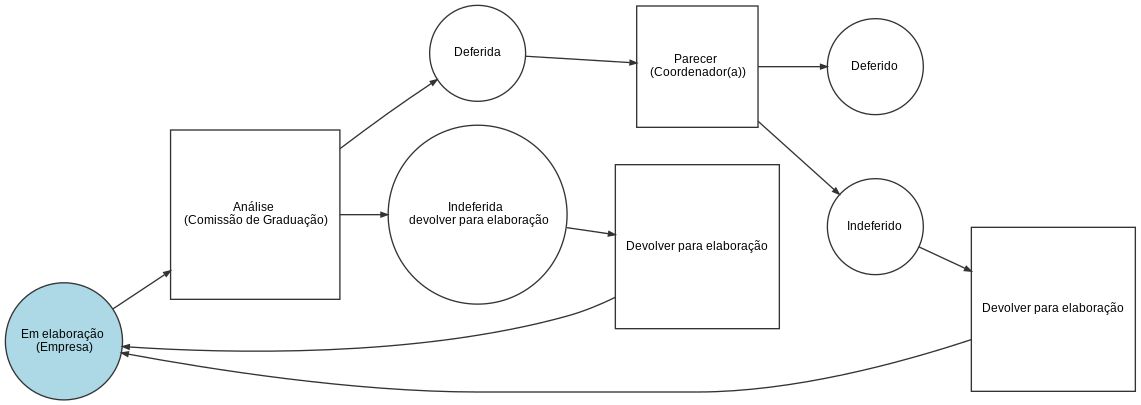
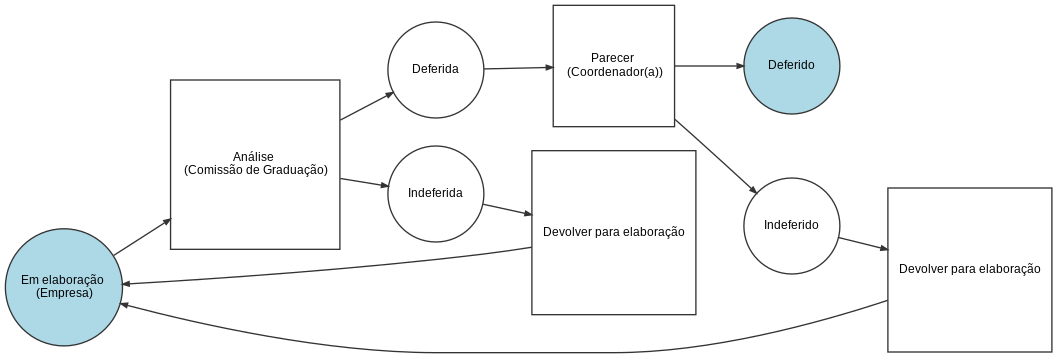
better fig

diff --git a/config/workflow.php b/config/workflow.php
@@ -24,12 +24,13 @@ $workflow_estagio =
         ],
         'analise_indeferida' => [
             'metadata' => [
-                'label' => "Indeferida \n devolver para elaboração",
+                'label' => "Indeferida",
             ],
         ],
         'parecer_deferido'  => [
             'metadata' => [
                 'label' => "Deferido",
+                'bg_color' => '#add8e6'
             ],
         ],
         'parecer_indeferido' => [
